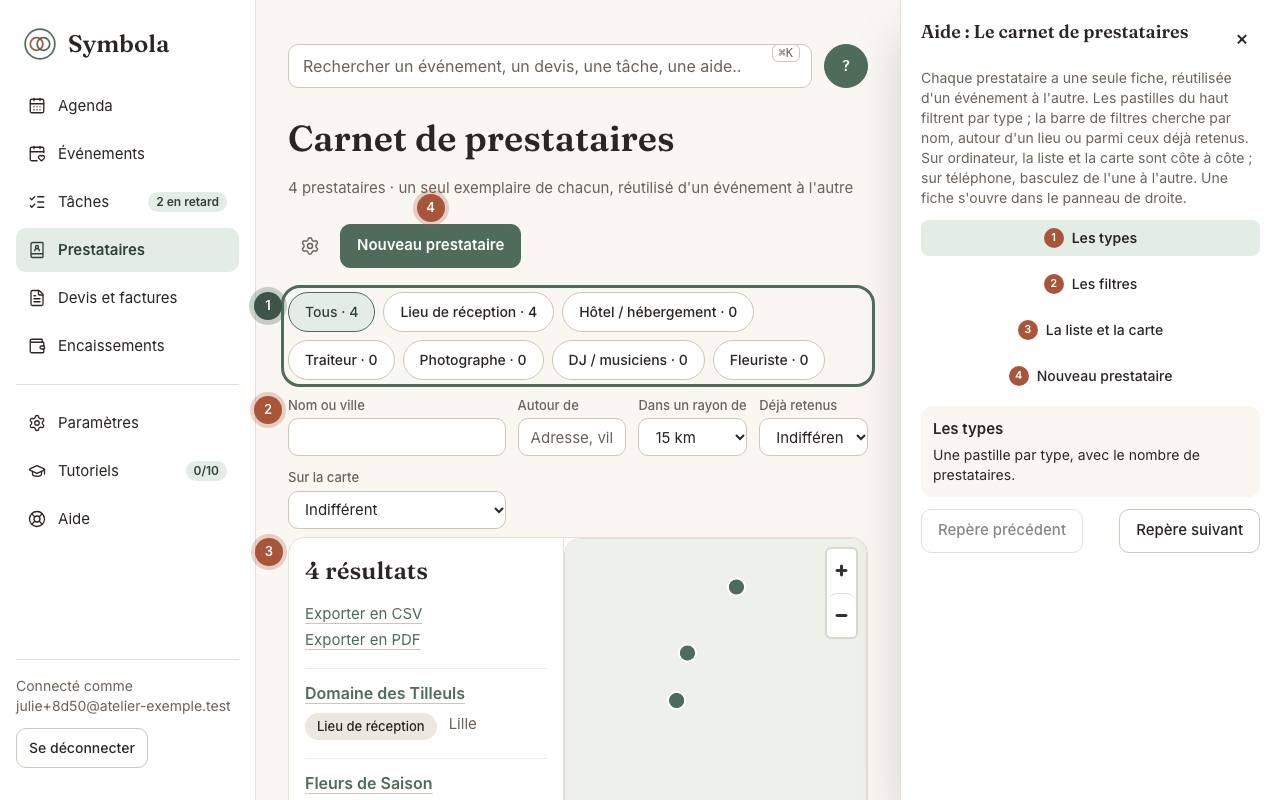
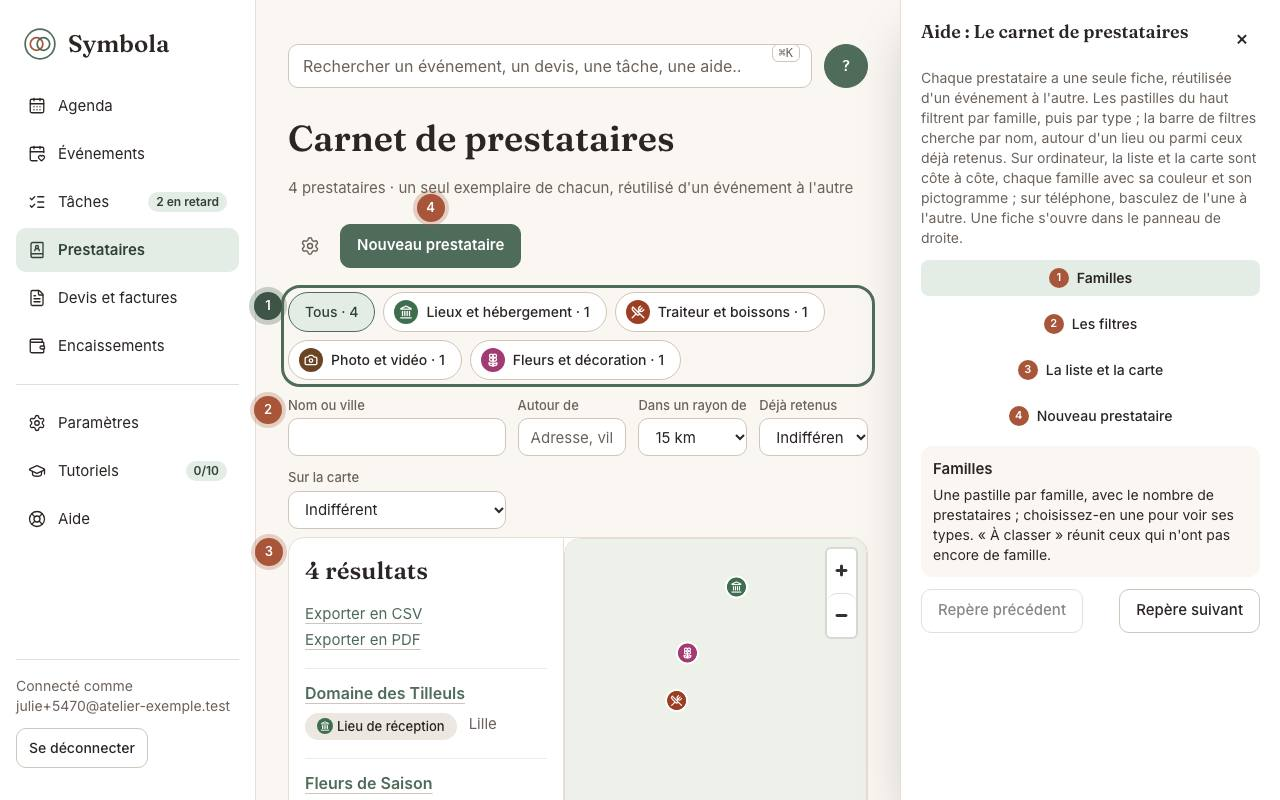
docs(aide): lot 16 captures du centre d'aide régénérées
Les 24 captures du centre d'aide (ADR 0033) montrent les écrans du lot 16 :
- accueil sans « Bonjour depuis Symbola », agenda sur 3 mois et « Voir
  l'année » ;
- liste des événements avec « ⋯ Plus d'options » ;
- fiche devis au motif commun (badge « Envoyé — version 1 », PDF dans
  l'en-tête) ;
- budget détaillé avec « Retour à la fiche de l'événement » ;
- import en trois tuiles ;
- Paramètres titrés par la rubrique ;
- carnet de prestataires rangé par famille.

Les fiches de démonstration du carnet reçoivent chacune leur type de
départ (lieu, traiteur, photographe, fleuriste) : la capture montre quatre
familles, avec leur couleur et leur pictogramme sur la carte.

diff --git a/apps/symbola/captures/help.captures.ts b/apps/symbola/captures/help.captures.ts
@@ -109,14 +109,17 @@ async function seed(organizationId: string, userId: string) {
     await simulateEventBudget({ organizationId, eventId: confirmed, totalAmountCents: 3500000, guestCount: 120, allocationModelId: model.id });
   }
 
-  const type = (await listVendorTypes(organizationId))[0]?.id ?? null;
-  for (const [name, city] of [
-    ["Domaine des Tilleuls", "Lille"],
-    ["Maison Verdier Traiteur", "Arras"],
-    ["Studio Lumière", "Amiens"],
-    ["Fleurs de Saison", "Lens"],
+  // Lot 16 (PRE-14) : chaque fiche a son type de départ, pour que le carnet
+  // montre plusieurs familles.
+  const types = await listVendorTypes(organizationId);
+  const typeOf = (starterKey: string) => types.find((type) => type.starterKey === starterKey)?.id ?? types[0]?.id ?? null;
+  for (const [name, city, starterKey] of [
+    ["Domaine des Tilleuls", "Lille", "venue"],
+    ["Maison Verdier Traiteur", "Arras", "caterer"],
+    ["Studio Lumière", "Amiens", "photographer"],
+    ["Fleurs de Saison", "Lens", "florist"],
   ] as const) {
-    await createVendor(organizationId, { name, typeId: type, city });
+    await createVendor(organizationId, { name, typeId: typeOf(starterKey), city });
   }
   return { confirmed, quoteId: quote.id };
 }

diff --git a/docs/lots/lot-16-reprise-ux.md b/docs/lots/lot-16-reprise-ux.md
@@ -6,7 +6,7 @@ familles (par exemple « Beauté » et « Tenues ») ; voir PRE-15.
 
 **Avancement (08/11/2026)** : SEC-01 et SEC-03 fusionnés (PR n° 75, ADR 0037 et 0038) ; HUB-19
 fusionné (PR n° 76, ADR 0039, écarts notés dans l'ADR) ; PRE-14 et PRE-15 fusionnés (PR n° 77,
-ADR 0040) ; IMP-11 et IMP-12 fusionnés (PR n° 78, ADR 0041) ; HUB-20 et HUB-21 fusionnés (PR n° 79, ADR 0042) ; ARC-01 fusionné (PR n° 80, ADR 0043) ; SEC-02 sur la branche `lot-16g-limitation-debit` (ADR 0044, migration 0078). Familles de l'agence événementielle proposées dans
+ADR 0040) ; IMP-11 et IMP-12 fusionnés (PR n° 78, ADR 0041) ; HUB-20 et HUB-21 fusionnés (PR n° 79, ADR 0042) ; ARC-01 fusionné (PR n° 80, ADR 0043) ; SEC-02 fusionné (PR n° 81, ADR 0044, migration 0078) ; captures du centre d'aide régénérées sur la branche `lot-16h-captures`. Reste la recette de Julien sur le staging. Familles de l'agence événementielle proposées dans
 `vendor-families.event-agency.json`, à corriger par Julien.
 
 ## Contexte
